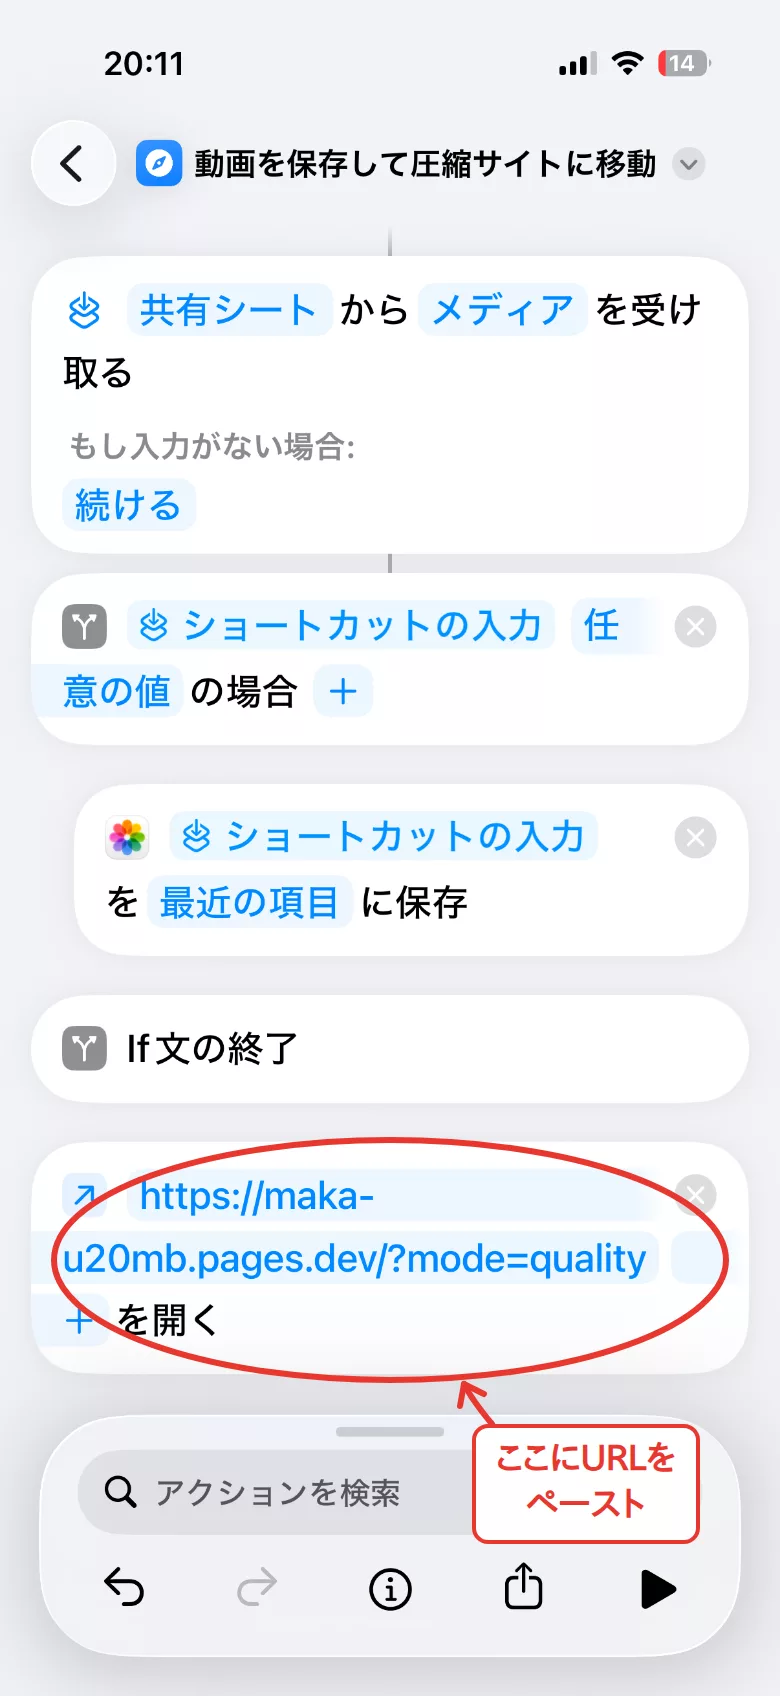
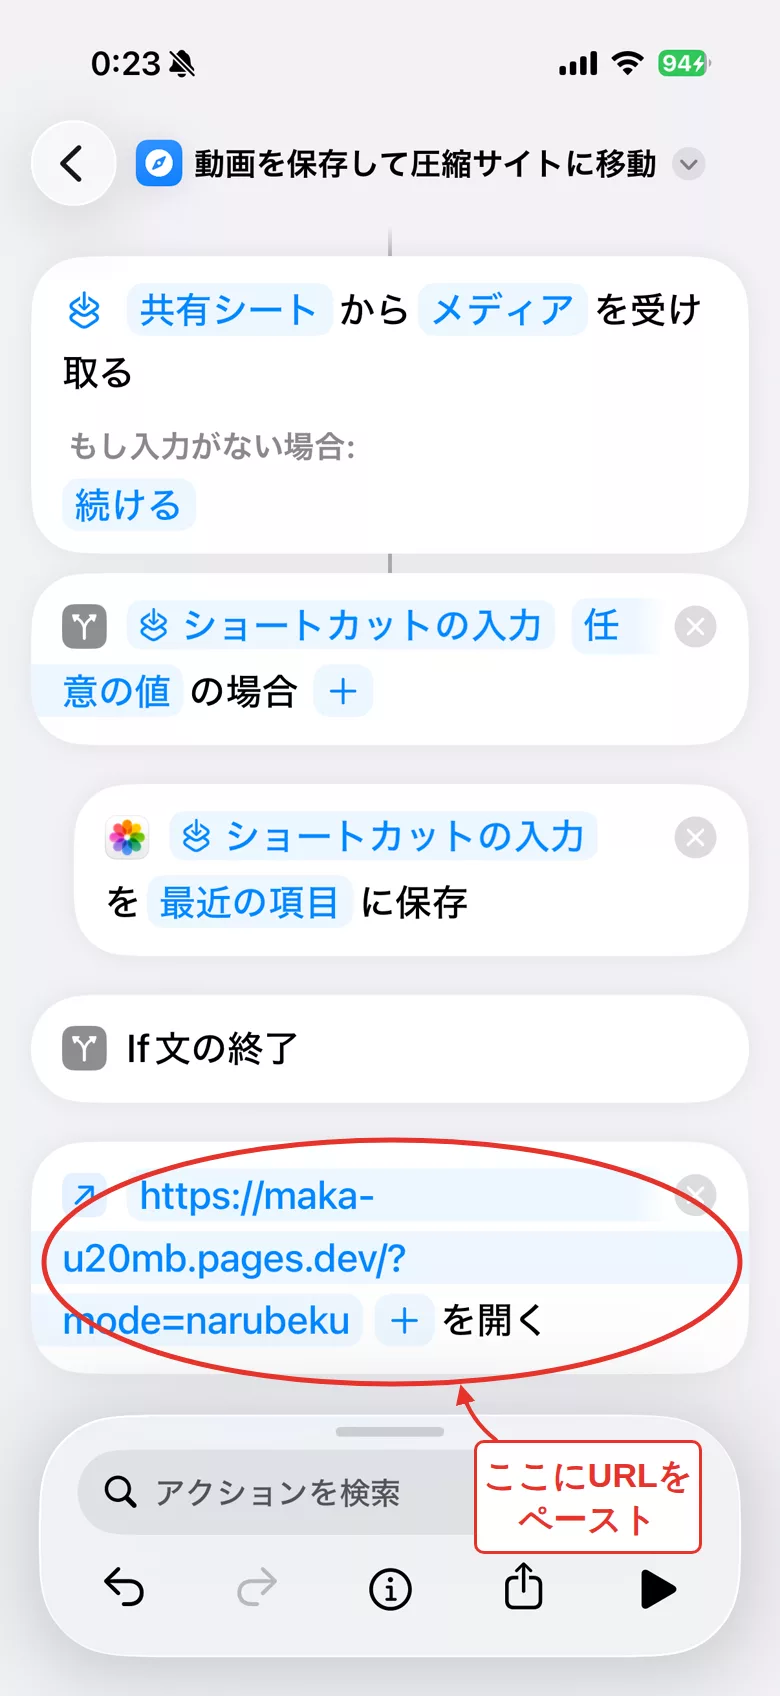
Shortcut page: new shortcut (mode=narubeku); help news: launch on 2026-10-07
- New iCloud shortcut link; sc-shortcut.webp from the new screenshot
  and sc-url-paste.webp redrawn on it; all mode=quality mentions on the
  shortcut page are now mode=narubeku
- Help: the update-notes card now only says the site launched on
  2026-10-07; FAQ ad note says 2026年10月現在

Claude-Session: https://claude.ai/code/session_01Kjx2uZRnB9w1XNEyRL87P8

diff --git a/public/shortcut.html b/public/shortcut.html
@@ -269,11 +269,11 @@
 
   <h3>① iCloudにアップロードしたショートカットを取り込む</h3>
   <p>下のリンクを押すと取り込めます。</p>
-  <p><a class="url" href="https://www.icloud.com/shortcuts/72f8ad1e2b754df9bf87d57e7b2885fa" target="_blank" rel="noopener noreferrer">https://www.icloud.com/shortcuts/72f8ad1e2b754df9bf87d57e7b2885fa</a></p>
+  <p><a class="url" href="https://www.icloud.com/shortcuts/7f3387e5fb474ac9be4b588e383c5fc0" target="_blank" rel="noopener noreferrer">https://www.icloud.com/shortcuts/7f3387e5fb474ac9be4b588e383c5fc0</a></p>
 
   <h3>② ショートカットを写す</h3>
   <p>アップロードしたショートカットと同一のものです。リンクを踏むのが不安であればこちらで。</p>
-  <img class="shot" src="./help/sc-shortcut.webp" width="390" height="848" loading="lazy" alt="ショートカットの中身：共有シートからメディアを受け取る（入力がない場合は続ける）／ショートカットの入力が任意の値の場合、ショートカットの入力を最近の項目に保存／If文の終了／https://maka-u20mb.pages.dev/?mode=quality を開く">
+  <img class="shot" src="./help/sc-shortcut.webp" width="390" height="848" loading="lazy" alt="ショートカットの中身：共有シートからメディアを受け取る（入力がない場合は続ける）／ショートカットの入力が任意の値の場合、ショートカットの入力を最近の項目に保存／If文の終了／https://maka-u20mb.pages.dev/?mode=narubeku を開く">
 
   <h2>3. 実行する</h2>
   <p>共有シートを開いて「動画を保存して圧縮サイトに移動」を押すだけ。サイトは「なるべく圧縮」（720p）の設定で開き、すぐ動画を選ぶ画面から始まります。</p>
@@ -299,16 +299,16 @@
   </div>
 
   <h2>5. 設定を指定して開く（応用）</h2>
-  <p>配布しているショートカットは「なるべく圧縮」の設定（<code>?mode=quality</code>）で開きます。ショートカット内のURLを変えると、別の設定で開くようにできます。</p>
+  <p>配布しているショートカットは「なるべく圧縮」の設定（<code>?mode=narubeku</code>）で開きます。ショートカット内のURLを変えると、別の設定で開くようにできます。</p>
   <p class="section-lead">サイトで「詳しく設定する」を選び、設定の画面の下にある「現在の設定を記憶したURLを生成してコピー」を押すと、今の設定を入れたURLがコピーされます。</p>
   <img class="shot" src="./help/sc-url.webp" width="390" height="844" loading="lazy" alt="「詳しく設定する」の設定の画面で「現在の設定を記憶したURLを生成してコピー」を押すと、今の設定を入れたURLがコピーされる">
 
-  <p class="section-lead">URLをコピーしたら、ショートカットの一番下の「URLを開く」のURL（<code>https://maka-u20mb.pages.dev/?mode=quality</code>）を消して、ペーストしてください。</p>
-  <img class="shot" src="./help/sc-url-paste.webp" width="390" height="848" loading="lazy" alt="ショートカットの一番下の「URLを開く」のURLの部分（https://maka-u20mb.pages.dev/?mode=quality）に、コピーしたURLをペーストする">
+  <p class="section-lead">URLをコピーしたら、ショートカットの一番下の「URLを開く」のURL（<code>https://maka-u20mb.pages.dev/?mode=narubeku</code>）を消して、ペーストしてください。</p>
+  <img class="shot" src="./help/sc-url-paste.webp" width="390" height="848" loading="lazy" alt="ショートカットの一番下の「URLを開く」のURLの部分（https://maka-u20mb.pages.dev/?mode=narubeku）に、コピーしたURLをペーストする">
 
   <p class="section-lead">コピーする代わりに、次のURLをそのまま入れることもできます。</p>
   <div class="example">
-    <p class="example-title">なるべくサイズを軽くしたいなら（720p・なるべく圧縮。配布しているショートカットの <code>?mode=quality</code> も同じ設定です）</p>
+    <p class="example-title">なるべくサイズを軽くしたいなら（720p・なるべく圧縮。配布しているショートカットはこのURLです）</p>
     <p><a class="url" href="./?mode=narubeku">https://maka-u20mb.pages.dev/?mode=narubeku</a></p>
   </div>
   <div class="example">

diff --git a/public/index.html b/public/index.html
@@ -303,7 +303,7 @@
         <span class="card-icon qa-icon" aria-hidden="true">Q</span>
         <span class="card-title"><span>Q. 無料ですか？</span></span>
         <p class="qa-answer">A. はい、無料です。登録不要で、透かしや回数の制限もありません。動画はアップロードされず、この端末の中だけで処理します。</p>
-        <p class="qa-answer">2026年9月現在、広告も付けていません。（利用者が多くなったら検討させてもらうよ！）</p>
+        <p class="qa-answer">2026年10月現在、広告も付けていません。（利用者が多くなったら検討させてもらうよ！）</p>
       </div>
       <div class="help-card help-qa">
         <span class="card-icon qa-icon" aria-hidden="true">Q</span>
@@ -381,8 +381,7 @@
       <div class="help-card help-qa help-news">
         <span class="card-icon qa-icon" aria-hidden="true">i</span>
         <span class="card-title"><span>更新情報</span></span>
-        <p class="qa-answer"><b>2026年10月6日</b><br>「画質優先（20MB以内）」で、先行圧縮が目標の80%以上ならすぐ出力するように（「詳しく設定する」の「許容する最小サイズ」で変更可）。圧縮後に戻っても先行圧縮を残すように。「確定」のときは、先行圧縮の実際のビットレートを表示。予想サイズと圧縮結果を大きく表示</p>
-        <p class="qa-answer"><b>2026年9月28日</b><br>サイト公開</p>
+        <p class="qa-answer"><b>2026年10月7日</b><br>サイト公開</p>
       </div>
     </div>
   </div>

diff --git a/public/js/constants.js b/public/js/constants.js
@@ -44,7 +44,7 @@ export var MIN_SHRINK = 0.03;
 export var KEYFRAME_INTERVAL = 2;             // 秒
 export var MIN_TRIM_LENGTH = 0.5;             // 秒
 export var AUDIO_DECODE_MAX_BYTES = 400 * MB;   // 互換モードで音声を扱うファイルサイズの上限
-export var APP_VERSION = '2026-10-07a';        // 診断情報に出す（どの版で起きたかを見分ける）
+export var APP_VERSION = '2026-10-07b';        // 診断情報に出す（どの版で起きたかを見分ける）
 export var CANCELLED = 'cancelled';
 export var SNAPSHOT_MAX_BYTES = 600 * MB;     // Android で動画をブラウザ内に写し取る上限（これより大きい動画は写さない）
 export var STALLED = 'stalled';

diff --git a/public/sw.js b/public/sw.js
@@ -9,7 +9,7 @@
 'use strict';
 
 var CACHE_PREFIX = 'video-compressor-under20mb-';   // このアプリのキャッシュ名の頭（同じドメインの別アプリのキャッシュは消さない）
-var CACHE = CACHE_PREFIX + 'v223';
+var CACHE = CACHE_PREFIX + 'v224';
 var NETWORK_TIMEOUT_MS = 3000;   // ネット優先のとき、ネットの応答をこれだけ待ってからキャッシュを使う
 
 // Cloudflare Pages のプレビュー（<ブランチ名>.<プロジェクト名>.pages.dev）と手元の確認環境だけネット優先にする
